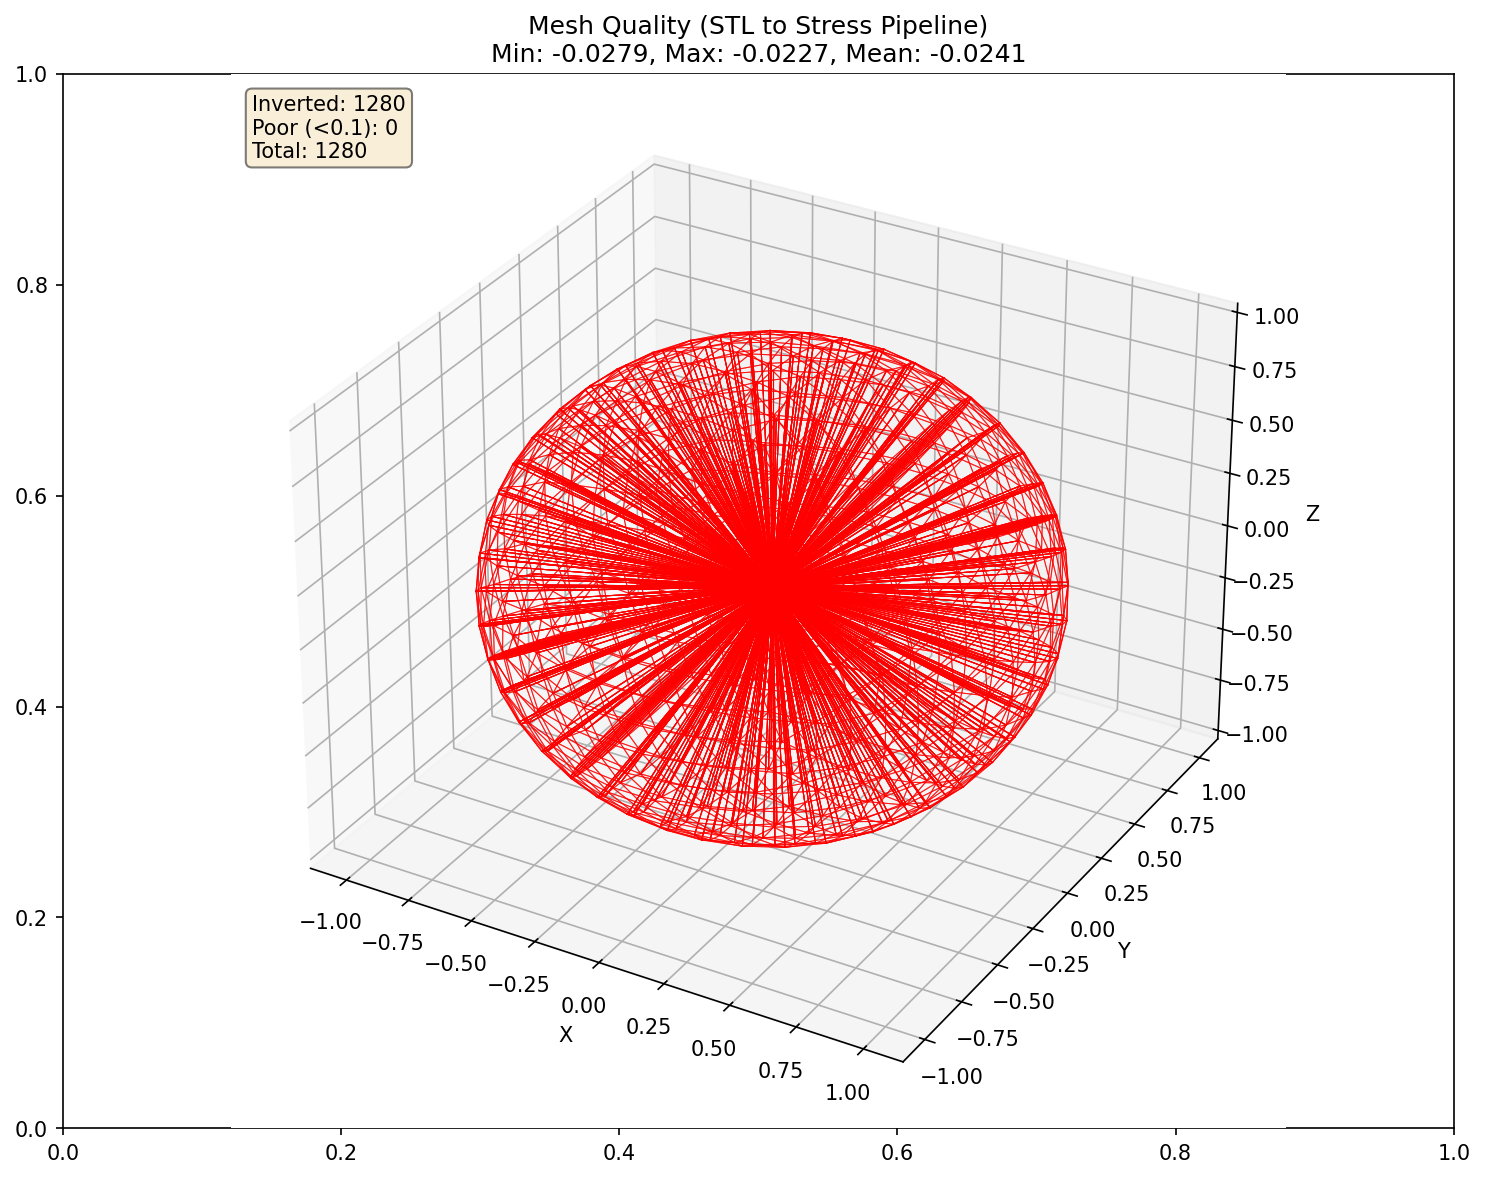
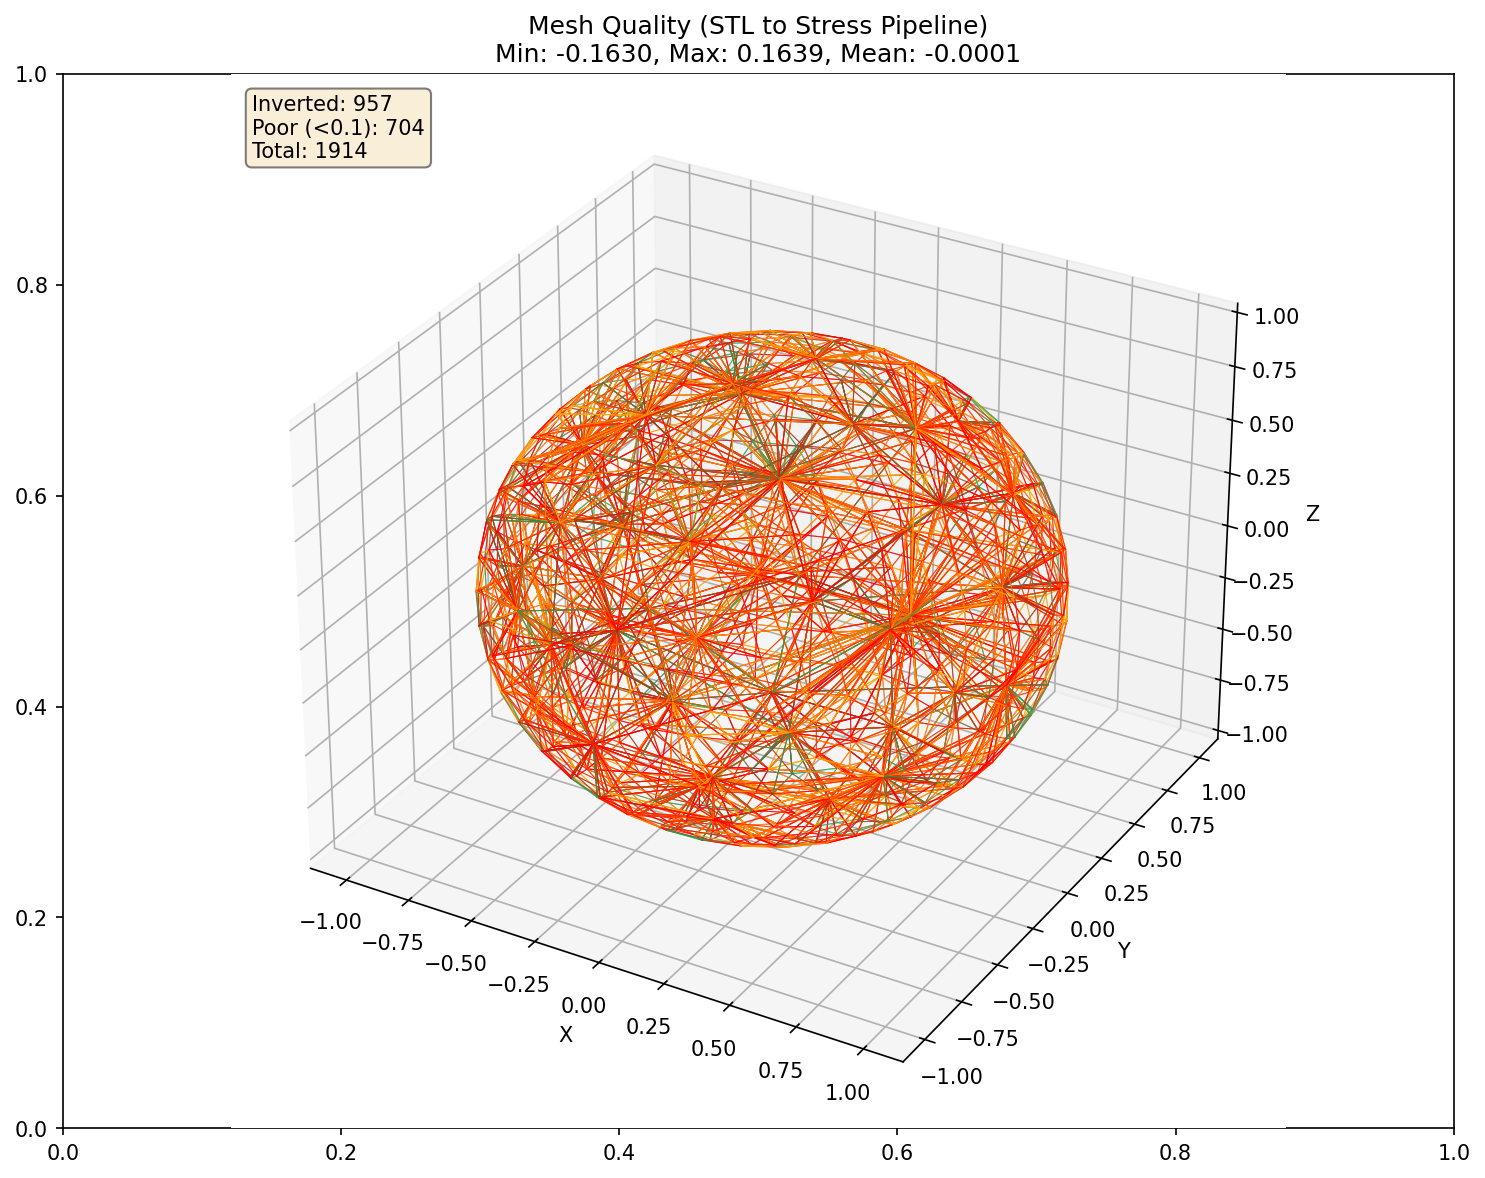
update branch

diff --git a/pytlc/examples/example_stl_to_stress.py b/pytlc/examples/example_stl_to_stress.py
@@ -34,6 +34,7 @@ from pytlc import (
     check_injectivity,
     find_injective_mapping,
     compute_shear_stress_hyperelastic,
+    compute_cauchy_stress_hyperelastic,
     compute_von_mises_stress,
     write_vtk_file,
     diagnose_mesh_quality,
@@ -41,6 +42,7 @@ from pytlc import (
     plot_stress_distribution,
     generate_diagnostic_report,
     tet_signed_volume,
+    extract_boundary_vertices,
 )
 
 
@@ -139,26 +141,55 @@ def main():
     
     if n_negative > 0:
         print("  Running TLC optimization to fix inverted elements...")
-        opt_result = find_injective_mapping(
-            vertices,
-            tetrahedra,
-            boundary_fixed=True,
-            max_iterations=100,
-            verbose=False
-        )
         
-        vertices = opt_result['optimized_vertices']
+        # Extract boundary vertices to fix as handles
+        boundary_verts = extract_boundary_vertices(tetrahedra)
         
-        # Re-check
-        is_injective, min_vol = check_injectivity(vertices, tetrahedra)
-        n_negative = sum(1 for i in range(len(tetrahedra))
-                         if tet_signed_volume(vertices[tetrahedra[i]]) / 6.0 < 0)
-        print(f"  After optimization: {n_negative} inverted elements")
+        # Fallback: if boundary extraction fails or returns too few, fix all surface vertices
+        if len(boundary_verts) < 10:
+            print("  ⚠  Automatic boundary detection found few vertices. Fixing all surface vertices...")
+            boundary_verts = np.unique(surface_faces)
         
-        if n_negative > 0:
-            print("  WARNING: Some elements remain inverted. Results may be inaccurate.")
+        print(f"  🔒 Fixing {len(boundary_verts)} boundary vertices as handles...")
+        
+        try:
+            # For fixing inverted elements, we use the current vertices as both rest and initial
+            # The optimization will move interior vertices to eliminate inversions
+            opt_result = find_injective_mapping(
+                rest_vertices=vertices,      # Source mesh (reference configuration)
+                init_vertices=vertices,      # Initial embedding (current configuration)
+                simplices=tetrahedra,        # Connectivity
+                handles=boundary_verts,      # Fixed boundary vertices
+                form='Tutte',
+                max_iterations=500,
+                ftol_abs=1e-8,
+                ftol_rel=1e-8,
+                xtol_abs=1e-8,
+                xtol_rel=1e-8,
+                stop_when_injective=True,
+                verbose=False
+            )
+            
+            if opt_result['success']:
+                vertices = opt_result['vertices']  # Changed from 'optimized_vertices' to 'vertices'
+                print("  ✅ TLC optimization successful!")
+                
+                # Re-check
+                is_injective, min_vol = check_injectivity(vertices, tetrahedra)
+                n_negative = sum(1 for i in range(len(tetrahedra))
+                                 if tet_signed_volume(vertices[tetrahedra[i]]) / 6.0 < 0)
+                print(f"  📊 After optimization: {n_negative} inverted elements, min vol = {min_vol:.6e}")
+                
+                if n_negative > 0:
+                    print("  ⚠  Warning: Some elements remain inverted. Try increasing max_iterations.")
+            else:
+                print("  ❌ TLC optimization failed to converge.")
+                print(f"     Reason: {opt_result.get('message', 'Unknown')}")
+        except Exception as e:
+            print(f"  ❌ Error during optimization: {e}")
+            return False
     else:
-        print("  Mesh is already injective ✓")
+        print("  ✅ Mesh is already injective (no inverted elements).")
     
     # -------------------------------------------------------------------------
     # Step 4: Diagnose mesh quality
@@ -200,17 +231,18 @@ def main():
     
     F_elements = compute_deformation_gradients(vertices, deformed_vertices, tetrahedra)
     
-    # Compute stress for each tetrahedron
-    stress_tensors = compute_shear_stress_hyperelastic(
+    # Compute stress for each tetrahedron (returns full Cauchy stress tensors)
+    full_stress_tensors, _ = compute_cauchy_stress_hyperelastic(
         F_elements,
         shear_modulus=shear_modulus,
-        bulk_modulus=bulk_modulus
+        bulk_modulus=bulk_modulus,
+        return_full_stress=True
     )
     
-    # Compute Von Mises stress
-    von_mises = np.array([compute_von_mises_stress(s) for s in stress_tensors])
+    # Compute Von Mises stress from full stress tensors
+    von_mises = np.array([compute_von_mises_stress(s) for s in full_stress_tensors])
     
-    print(f"  Computed stress for {len(stress_tensors)} elements")
+    print(f"  Computed stress for {len(full_stress_tensors)} elements")
     print(f"  Von Mises stress range: [{von_mises.min():.2f}, {von_mises.max():.2f}] Pa")
     print(f"  Mean Von Mises stress: {von_mises.mean():.2f} Pa")
     
@@ -246,12 +278,12 @@ def main():
     )
     print(f"  Saved mesh quality plot: {quality_plot_path}")
     
-    # Plot stress distribution
+    # Plot stress distribution (pass element stress tensors, not vertex stress)
     stress_plot_path = os.path.join(output_dir, 'stl_stress_distribution.png')
     plot_stress_distribution(
         deformed_vertices,
         tetrahedra,
-        vertex_stress,
+        full_stress_tensors,  # Pass element stress tensors (n_elements, 3, 3)
         title="Von Mises Stress Distribution",
         cmap='hot',
         output_path=stress_plot_path,
